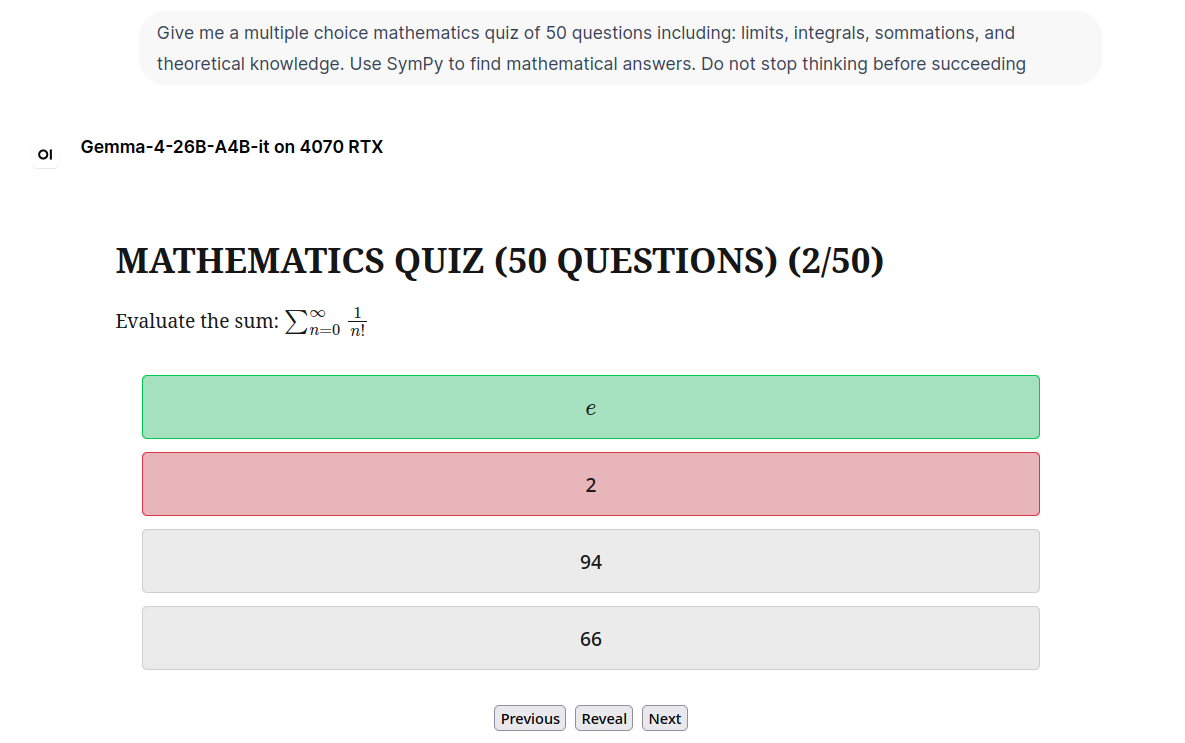
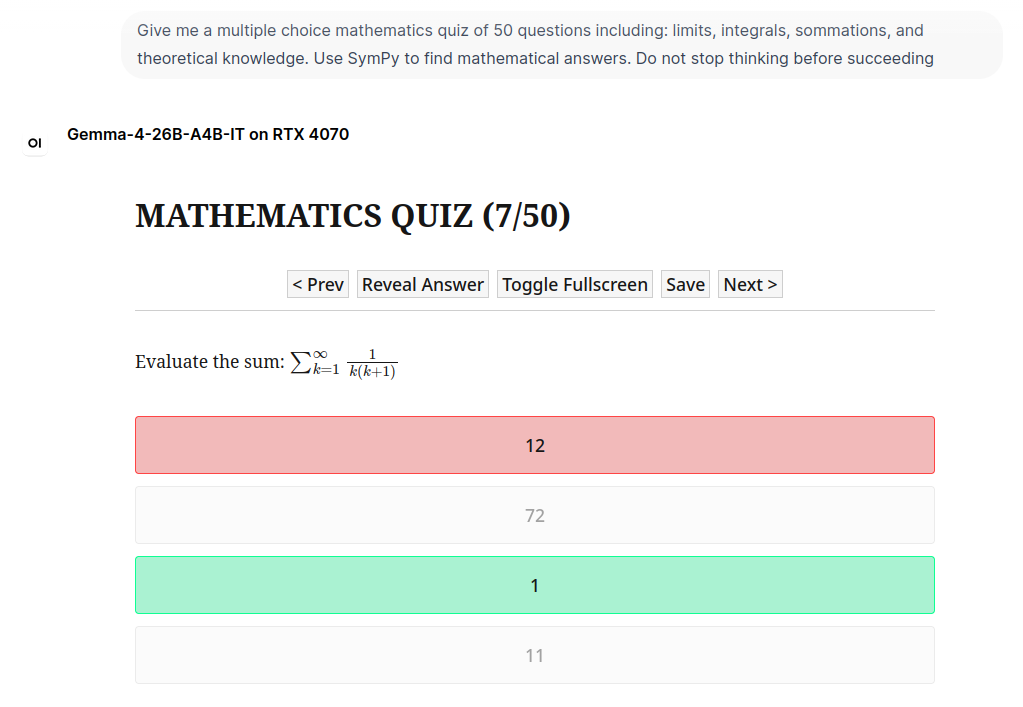
Added on parsing option, updated examples with new UI

diff --git a/src/openquizui/quiz_function.py b/src/openquizui/quiz_function.py
@@ -40,11 +40,11 @@ THEMES = {
 --surface: color-mix(in srgb, var(--bg) 92%, var(--text) 8%);
 --surface-2: color-mix(in srgb, var(--bg) 96%, var(--text) 4%);
 
---success: #00ff00;
---danger: #ff0000;
+--success: #0fff93;
+--danger: #ff4545;
 
 --correct_bg: color-mix(in srgb, var(--success) 30%, var(--surface));
---wrong_bg: color-mix(in srgb, var(--danger) 30%, var(--danger));
+--wrong_bg: color-mix(in srgb, var(--danger) 30%, var(--surface));
 """,
     "default_dark": """
 --bg: oklch(20% 0 0);
@@ -279,6 +279,10 @@ def parse_quiz(
         r"^\s*question\s*\d+.*?([A-Z])\b",
         # Numbered bulk: 1.A, 2.B, 3.C, 4.B, 5.A and optional | and ) delimiters
         r"\b\d+\s*\*{0,2}\s*[\.\):-]\s*\*{0,2}\s*([A-Z])\s*\)?(?=\s*(?:\||,|$|\s+\d+\s*[\.\):-]))",
+        # Adding a space as option:
+        r"\b\d+\s*\*{0,2}\s*[-.):\s]\s*\*{0,2}\s*([A-Z])\s*\)?(?=\s*(?:\||,|$|\s+\d+\s*[-.):\s]))",
+        # In Table
+        r"^\|\s*\*{0,2}\d+\*{0,2}\s*\|\s*\*{0,2}([A-Z]).*\|\s*$",
     ]
 
     for pattern in answer_patterns:
@@ -288,12 +292,23 @@ def parse_quiz(
         ]
 
         if len(matches) == len(questions):  # Verification step
+            valid = True
             for q, letter in zip(questions, matches):
-                q["correct_index"] = ord(letter) - ord("A")
-            break
+                correct_index = ord(letter) - ord("A")
+
+                # Check that the answer exists in the question's choices
+                if correct_index < 0 or correct_index >= len(q["options"]):
+                    valid = False
+                    break
+
+                q["correct_index"] = correct_index
+
+            if valid:
+                break
     else:
         raise ValueError(
-            "Failed to parse answers" + str(len(matches)) + str(len(questions))
+            f"{matches}"
+            "Failed to parse answers" + str(len(matches)) + "/" + str(len(questions))
         )
 
     return title, questions
@@ -590,7 +605,9 @@ def shuffle_options(questions: list[dict]):
 def wrap_html(quiz, enable_mathjax: bool, light_theme, dark_theme):
     quiz_json = json.dumps(quiz)
 
-    rendered_script = script.replace("__ENABLE_MATHJAX__", "true" if enable_mathjax else "false")
+    rendered_script = script.replace(
+        "__ENABLE_MATHJAX__", "true" if enable_mathjax else "false"
+    )
 
     return f"""
 <!DOCTYPE html>